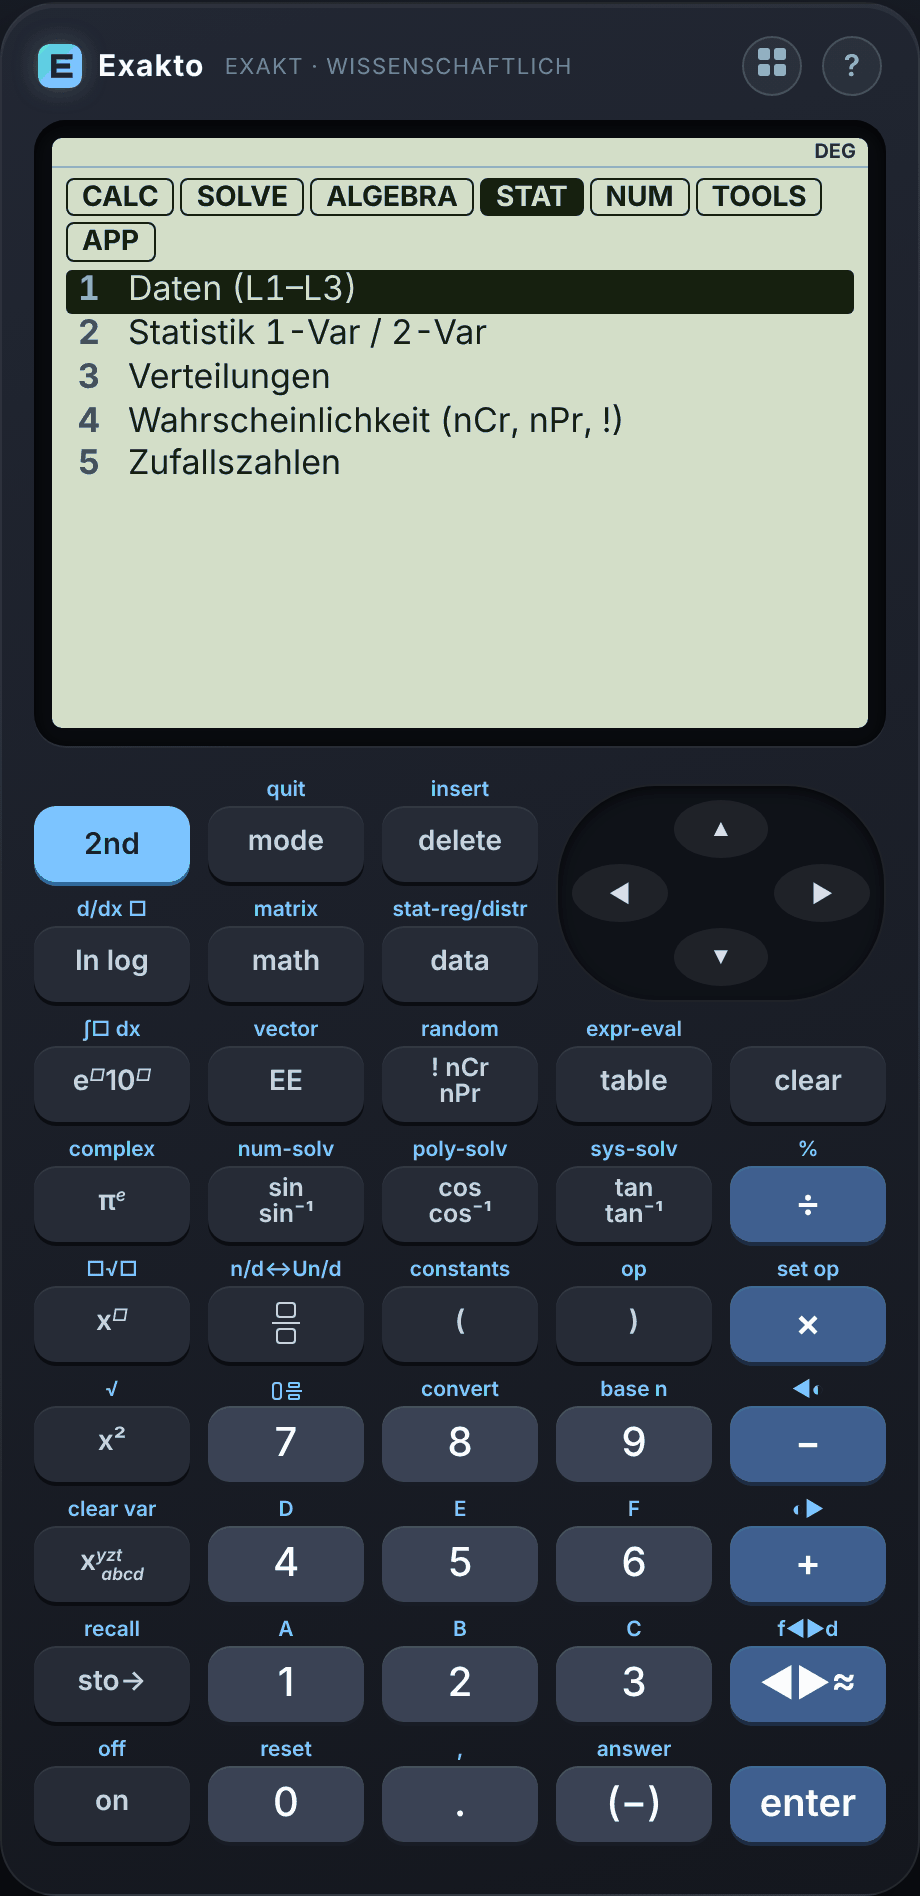
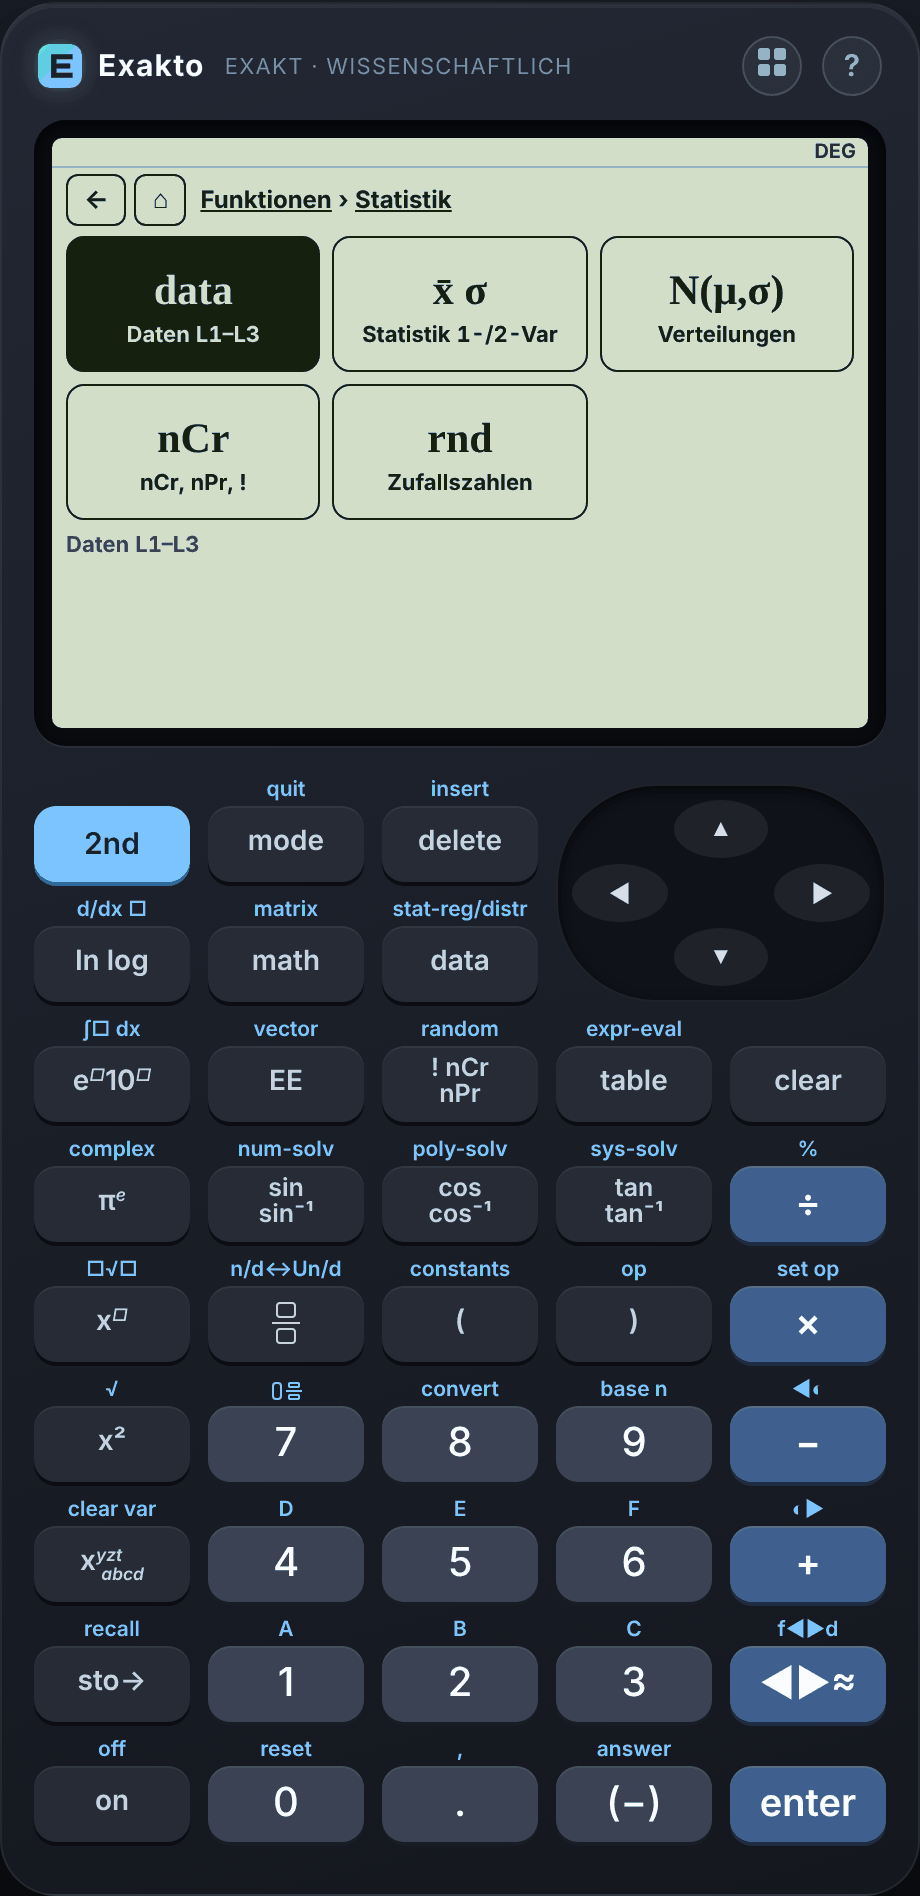
Add files via upload

Changed region(s): [[0.0609, 0.0934, 0.9435, 0.3112], [0.0913, 0.2801, 0.1522, 0.3112]]

diff --git a/src/fmenu.js b/src/fmenu.js
@@ -2,59 +2,137 @@
 const FM_KEY = 'exakto.recent.v1';
 const fmApp = act => () => { doMenu(act); renderAll(); };
 const fmOpen = name => () => openByName(name);
-// [Tab, [[id, Beschriftung, Aktion]]]; Aktion: {st:'frac'} fuegt Struktur ein, {t:'ln('} ein Token, {run} fuehrt aus
-const FM_GROUPS = [
-  ['CALC', [
-    ['frac', 'Bruch a/b', { st: 'frac' }], ['mix', 'Gemischte Zahl', { st: 'mix' }], ['pow', 'Potenz xⁿ', { st: 'pow' }], ['sqrt', 'Wurzel √', { st: 'sqrt' }],
-    ['root', 'n-te Wurzel', { st: 'root' }], ['abs', 'Betrag |x|', { st: 'abs' }], ['sum', 'Summe Σ', { st: 'sum' }], ['prod', 'Produkt Π', { st: 'prod' }],
-    ['int', 'Integral ∫', { st: 'int' }], ['deriv', 'Ableitung d/dx', { st: 'deriv' }],
-  ]],
-  ['SOLVE', [
-    ['numsolve', 'Gleichung lösen (numerisch)', { run: fmOpen('numsolve') }], ['polysolve', 'Polynom (Grad 2/3)', { run: fmOpen('polysolve') }],
-    ['syssolve', 'Gleichungssystem (2/3)', { run: fmOpen('syssolve') }], ['exprEval', 'Ausdruck auswerten', { run: fmOpen('exprEval') }], ['table', 'Wertetabelle', { run: fmOpen('table') }],
-  ]],
-  ['ALGEBRA', [
-    ['complex', 'Komplexe Zahlen', { run: fmOpen('complex') }], ['matrix', 'Matrizen', { run: fmOpen('matrix') }], ['vector', 'Vektoren', { run: fmOpen('vector') }],
-    ['opmenu', 'Pol, Rec, Primfaktoren …', { run: fmOpen('opmenu') }], ['setop', 'Mengen (L1–L3)', { run: fmOpen('setop') }],
-  ]],
-  ['STAT', [
-    ['data', 'Daten (L1–L3)', { run: fmOpen('data') }], ['stat', 'Statistik 1-Var / 2-Var', { run: fmOpen('stat') }], ['statdistr', 'Verteilungen', { run: fmOpen('statdistr') }],
-    ['prb', 'Wahrscheinlichkeit (nCr, nPr, !)', { run: fmOpen('prb') }], ['random', 'Zufallszahlen', { run: fmOpen('random') }],
-  ]],
-  ['NUM', [
-    ['math', 'Mathe-Funktionen', { run: fmOpen('math') }], ['base', 'Zahlensysteme (Bin, Oct, Hex)', { run: fmOpen('base') }], ['conv', 'Umrechnung (Einheiten)', { run: fmOpen('conv') }],
-    ['const', 'Konstanten', { run: fmOpen('const') }], ['angle', 'Winkel (°, rad, gon)', { run: fmOpen('angle') }], ['rp', 'Polar ⇄ Kartesisch', { run: fmOpen('rp') }],
-    ['var', 'Variablen', { run: fmOpen('var') }], ['sto', 'Wert speichern →', { run: fmOpen('sto') }], ['rcl', 'Wert abrufen', { run: fmOpen('rcl') }],
-  ]],
-  ['TOOLS', [
-    ['graph', 'Graph zeichnen (F2)', { run: fmApp('graph') }], ['tools', 'Engineering · Elektrotechnik (F3)', { run: fmApp('tools') }],
-  ]],
-  ['APP', [
-    ['calc', 'Rechner (Startbildschirm)', { run: fmApp('calc') }], ['mode', 'Modus (Winkel, Format, Stellen)', { run: fmOpen('mode') }],
-    ['help', 'Einstellungen & Hilfe (?)', { run: fmApp('help') }], ['reset', 'Zurücksetzen …', { run: fmOpen('reset') }],
-  ]],
+// Baum: Ordner {id,l,icon,kids} und Funktionen {id,l,sym,act}; act: {st:'frac'} fuegt Struktur ein, {run} fuehrt aus
+const fmL = (id, l, sym, act) => ({ id, l, sym, act });
+const FM_SVG = (p) => `<svg viewBox="0 0 32 32" fill="none" stroke="currentColor" stroke-width="2.2" stroke-linecap="round" stroke-linejoin="round" aria-hidden="true">${p}</svg>`;
+const FM_ICON = {
+  calc: FM_SVG('<rect x="6" y="3" width="20" height="26" rx="3"/><path d="M10 9h12M11 15h2M19 15h2M11 20h2M19 20h2M11 25h2M19 25h2"/>'),
+  analysis: FM_SVG('<path d="M12 4c-3 0-3 3-3 6v12c0 3 0 6-3 6M20 12l6 8M26 12l-6 8"/>'),
+  solve: FM_SVG('<path d="M4 22l6-12 5 8 4-5 9 9"/><circle cx="10" cy="10" r="1.6" fill="currentColor"/>'),
+  alg: FM_SVG('<path d="M8 5H5v22h3M24 5h3v22h-3M11 11h4M17 11h4M11 16h4M17 16h4M11 21h4M17 21h4"/>'),
+  stat: FM_SVG('<path d="M5 27V5M5 27h22"/><rect x="9" y="16" width="4" height="8"/><rect x="15" y="10" width="4" height="14"/><rect x="21" y="14" width="4" height="10"/>'),
+  num: FM_SVG('<path d="M12 5L9 27M22 5l-3 22M5 12h22M4 20h22"/>'),
+  conv: FM_SVG('<path d="M5 12h20l-5-5M27 20H7l5 5"/>'),
+  mem: FM_SVG('<rect x="5" y="8" width="22" height="16" rx="2"/><path d="M10 8V4M16 8V4M22 8V4M10 24v4M16 24v4M22 24v4"/>'),
+  tools: FM_SVG('<path d="M5 26V6M5 26h22"/><path d="M7 22c5-14 8 8 12-6s5-6 7-8"/>'),
+  app: FM_SVG('<circle cx="16" cy="16" r="4"/><path d="M16 4v5M16 23v5M4 16h5M23 16h5M7.5 7.5l3.5 3.5M21 21l3.5 3.5M24.5 7.5L21 11M11 21l-3.5 3.5"/>'),
+  recent: FM_SVG('<circle cx="16" cy="16" r="11"/><path d="M16 9v7l5 3"/>'),
+};
+const FM_TREE = [
+  { id: 'f-calc', l: 'Rechnen', icon: 'calc', kids: [
+    fmL('frac', 'Bruch', 'a⁄b', { st: 'frac' }), fmL('mix', 'Gemischte Zahl', '1½', { st: 'mix' }), fmL('pow', 'Potenz', 'xⁿ', { st: 'pow' }),
+    fmL('sqrt', 'Wurzel', '√', { st: 'sqrt' }), fmL('root', 'n-te Wurzel', 'ⁿ√', { st: 'root' }), fmL('abs', 'Betrag', '|x|', { st: 'abs' }),
+    { id: 'f-analysis', l: 'Analysis', icon: 'analysis', kids: [
+      fmL('sum', 'Summe', 'Σ', { st: 'sum' }), fmL('prod', 'Produkt', 'Π', { st: 'prod' }), fmL('int', 'Integral', '∫', { st: 'int' }), fmL('deriv', 'Ableitung', 'd/dx', { st: 'deriv' }),
+    ] },
+  ] },
+  { id: 'f-solve', l: 'Lösen', icon: 'solve', kids: [
+    fmL('numsolve', 'Num-Solv', 'f(x)=0', { run: () => openByName('numsolve') }), fmL('polysolve', 'Poly-Solv', 'ax²+', { run: () => openByName('polysolve') }),
+    fmL('syssolve', 'Sys-Solv', 'A·x=b', { run: () => openByName('syssolve') }), fmL('exprEval', 'Ausdruck auswerten', 'expr', { run: () => openByName('exprEval') }),
+    fmL('table', 'Wertetabelle', 'table', { run: () => openByName('table') }),
+  ] },
+  { id: 'f-alg', l: 'Algebra', icon: 'alg', kids: [
+    fmL('complex', 'Komplexe Zahlen', 'z=a+bi', { run: () => openByName('complex') }), fmL('matrix', 'Matrizen', '[A]', { run: () => openByName('matrix') }),
+    fmL('vector', 'Vektoren', 'u×v', { run: () => openByName('vector') }), fmL('opmenu', 'Pol, Rec, Primfaktoren', 'op', { run: () => openByName('opmenu') }),
+    fmL('setop', 'Mengen', 'A∪B', { run: () => openByName('setop') }),
+  ] },
+  { id: 'f-stat', l: 'Statistik', icon: 'stat', kids: [
+    fmL('data', 'Daten L1–L3', 'data', { run: () => openByName('data') }), fmL('stat', 'Statistik 1-/2-Var', 'x̄ σ', { run: () => openByName('stat') }),
+    fmL('statdistr', 'Verteilungen', 'N(μ,σ)', { run: () => openByName('statdistr') }), fmL('prb', 'nCr, nPr, !', 'nCr', { run: () => openByName('prb') }),
+    fmL('random', 'Zufallszahlen', 'rnd', { run: () => openByName('random') }),
+  ] },
+  { id: 'f-num', l: 'Zahlen', icon: 'num', kids: [
+    fmL('math', 'Mathe-Funktionen', 'f(x)', { run: () => openByName('math') }), fmL('base', 'Zahlensysteme', 'hex', { run: () => openByName('base') }),
+    { id: 'f-conv', l: 'Umrechnen', icon: 'conv', kids: [
+      fmL('conv', 'Einheiten', 'cm→in', { run: () => openByName('conv') }), fmL('const', 'Konstanten', 'π e c', { run: () => openByName('const') }),
+      fmL('angle', 'Winkel', '° rad', { run: () => openByName('angle') }), fmL('rp', 'Polar ⇄ Kartesisch', 'r∠θ', { run: () => openByName('rp') }),
+    ] },
+    { id: 'f-mem', l: 'Speicher', icon: 'mem', kids: [
+      fmL('var', 'Variablen', 'x y z', { run: () => openByName('var') }), fmL('sto', 'Speichern', 'sto→', { run: () => openByName('sto') }), fmL('rcl', 'Abrufen', 'rcl', { run: () => openByName('rcl') }),
+    ] },
+  ] },
+  { id: 'f-tools', l: 'Werkzeuge', icon: 'tools', kids: [
+    fmL('graph', 'Graph (F2)', 'y=f(x)', { run: () => { doMenu('graph'); renderAll(); } }), fmL('tools', 'Engineering (F3)', 'U=R·I', { run: () => { doMenu('tools'); renderAll(); } }),
+  ] },
+  { id: 'f-app', l: 'Einstellungen', icon: 'app', kids: [
+    fmL('calc', 'Rechner (Start)', '⌂', { run: () => { doMenu('calc'); renderAll(); } }), fmL('mode', 'Modus', 'mode', { run: () => openByName('mode') }),
+    fmL('help', 'Hilfe & Einstellungen', '?', { run: () => { doMenu('help'); renderAll(); } }), fmL('reset', 'Zurücksetzen', '↺', { run: () => openByName('reset') }),
+  ] },
 ];
-const FM_INDEX = {}; FM_GROUPS.forEach(([, items]) => items.forEach(([id, l, act]) => { FM_INDEX[id] = { id, l, act }; }));
+const FM_EN = {"Funktionen": "Functions", "Zuletzt benutzt": "Recently used", "Rechnen": "Calculate", "Analysis": "Calculus", "Lösen": "Solve", "Algebra": "Algebra", "Statistik": "Statistics", "Zahlen": "Numbers", "Umrechnen": "Convert", "Speicher": "Memory", "Werkzeuge": "Tools", "Einstellungen": "Settings", "Ordner": "Folder", "Zurück": "Back", "Oberste Ebene": "Top level", "Bruch": "Fraction", "Gemischte Zahl": "Mixed number", "Potenz": "Power", "Wurzel": "Root", "n-te Wurzel": "nth root", "Betrag": "Absolute value", "Summe": "Sum", "Produkt": "Product", "Integral": "Integral", "Ableitung": "Derivative", "Ausdruck auswerten": "Evaluate expression", "Wertetabelle": "Value table", "Komplexe Zahlen": "Complex numbers", "Matrizen": "Matrices", "Vektoren": "Vectors", "Pol, Rec, Primfaktoren": "Pol, Rec, prime factors", "Mengen": "Sets", "Daten L1–L3": "Data L1–L3", "Statistik 1-/2-Var": "1-/2-Var statistics", "Verteilungen": "Distributions", "Zufallszahlen": "Random numbers", "Mathe-Funktionen": "Math functions", "Zahlensysteme": "Number bases", "Einheiten": "Units", "Konstanten": "Constants", "Winkel": "Angles", "Polar ⇄ Kartesisch": "Polar ⇄ Cartesian", "Variablen": "Variables", "Speichern": "Store", "Abrufen": "Recall", "Rechner (Start)": "Calculator (home)", "Modus": "Mode", "Hilfe & Einstellungen": "Help & settings", "Zurücksetzen": "Reset"};
+const fmT = x => (UI.lang === 'en' && FM_EN[x]) || x;
+const FM_INDEX = {};
+(function idx(list) { list.forEach(n => { if (n.kids) idx(n.kids); else FM_INDEX[n.id] = n; }); })(FM_TREE);
 function fmRecent() {
   try { const a = JSON.parse(localStorage.getItem(FM_KEY) || '[]'); return Array.isArray(a) ? a.filter(x => typeof x === 'string' && FM_INDEX[x]).slice(0, 5) : []; } catch (e) { return []; }
 }
 function fmNote(id) {
   try { const a = [id].concat(fmRecent().filter(x => x !== id)).slice(0, 5); localStorage.setItem(FM_KEY, JSON.stringify(a)); } catch (e) { /* egal */ }
 }
-function fmItem(e) {
-  const it = { l: tr(e.l), onChoose: () => fmNote(e.id) };
-  if (e.act.run) it.run = e.act.run; else if (e.act.st) it.st = e.act.st; else it.t = [].concat(e.act.t);
-  return it;
-}
-function functionMenuDef() {
-  const tabs = []; const rec = fmRecent();
-  if (rec.length) tabs.push({ name: 'RECENT', items: rec.map(id => fmItem(FM_INDEX[id])) });
-  FM_GROUPS.forEach(([name, items]) => tabs.push({ name, items: items.map(([id, l, act]) => fmItem({ id, l, act })) }));
-  return { title: 'FUNKTIONEN', tabs };
+function fmRoot() {
+  const rec = fmRecent().map(id => FM_INDEX[id]);
+  return { kids: (rec.length ? [{ id: 'f-recent', l: 'Zuletzt benutzt', icon: 'recent', kids: rec }] : []).concat(FM_TREE) };
 }
 function openFunctionMenu() {
   if (typeof showPanel === 'function' && panelOpen()) showPanel(null);
   if (ST.off) { ST.off = false; }
-  const c = cur(); if (c.type === 'menu' && c.def && c.def.title === 'FUNKTIONEN') { pop(); renderAll(); return; }
-  openMenu(functionMenuDef()); renderAll();
+  const c = cur(); if (c.fm) { pop(); renderAll(); return; }
+  openFolderMenu(); renderAll();
+}
+function openFolderMenu() {
+  const COLS = 3; const root = fmRoot();
+  const sc = {
+    type: 'menu', overlay: true, fm: true, path: [], sel: 0,
+    editor() { return null; },
+    node() { let n = root; for (const i of sc.path) n = n.kids[i]; return n; },
+    render() {
+      const nodes = [root]; sc.path.forEach(i => nodes.push(nodes[nodes.length - 1].kids[i]));
+      const crumbs = nodes.map((n, d) => `<a data-tap="c:${d}">${d === 0 ? esc(fmT('Funktionen')) : esc(fmT(n.l))}</a>`).join(' › ');
+      const kids = sc.node().kids;
+      const dis = sc.path.length ? '' : 'disabled';
+      const tiles = kids.map((k, i) => {
+        const g = k.icon ? FM_ICON[k.icon] : `<span class="sym">${esc(k.sym || '▸')}</span>`;
+        return `<div class="tile ${k.kids ? 'folder' : ''} ${i === sc.sel ? 'sel' : ''}" data-tap="i:${i}">${k.kids ? `<span class="cnt">${k.kids.length}</span>` : ''}${g}<span class="t">${esc(fmT(k.l))}</span></div>`;
+      }).join('');
+      const k = kids[sc.sel]; const foot = k ? (k.kids ? fmT('Ordner') + ': ' : '') + fmT(k.l) : '';
+      return `<div class="fbar"><span class="fb ${dis}" data-tap="b" title="${esc(fmT('Zurück'))}">←</span><span class="fb ${dis}" data-tap="h" title="${esc(fmT('Oberste Ebene'))}">⌂</span><span class="crumbs">${crumbs}</span></div><div class="tgrid">${tiles}</div><div class="ffoot">${foot}</div>`;
+    },
+    cmd(c) {
+      const kids = sc.node().kids; const n = kids.length;
+      switch (c.k) {
+        case 'tap': {
+          const [kind, v] = c.key.split(':');
+          if (kind === 'i') { sc.sel = +v; choose(+v); } else if (kind === 'b') up(sc.path.length - 1); else if (kind === 'h') up(0); else if (kind === 'c') up(+v);
+          return true;
+        }
+        case 'nav':
+          if (c.d === 'left') sc.sel = (sc.sel + n - 1) % n;
+          else if (c.d === 'right') sc.sel = (sc.sel + 1) % n;
+          else if (c.d === 'down') sc.sel = sc.sel + COLS < n ? sc.sel + COLS : sc.sel % COLS;
+          else sc.sel = sc.sel - COLS >= 0 ? sc.sel - COLS : Math.min(n - 1, sc.sel + Math.floor((n - 1 - sc.sel) / COLS) * COLS);
+          return true;
+        case 'enter': choose(sc.sel); return true;
+        case 'tok': { const d = c.t[0]; if (c.t.length === 1 && d >= '0' && d <= '9') choose(d === '0' ? 9 : Number(d) - 1); return true; }
+        case 'clear': if (sc.path.length) up(sc.path.length - 1); else pop(); return true;
+        case 'quit': goHome(); return true;
+        case 'open': pop(); openByName(c.name); return true;
+      }
+      return true;
+    },
+  };
+  function up(d) { if (d < 0) return; sc.path = sc.path.slice(0, d); sc.sel = 0; }
+  function choose(i) {
+    const it = sc.node().kids[i]; if (!it) return;
+    if (it.kids) { sc.path.push(i); sc.sel = 0; return; }
+    pop();
+    fmNote(it.id);
+    if (it.act.run) { it.act.run(); return; }
+    const b = cur(); const E = b.editor && b.editor();
+    if (!E) return;
+    const o = { ans: b.type === 'home' };
+    if (b.type === 'home') ST.hsel = null;
+    edCmd(E, { k: 'st', kind: it.act.st }, o);
+    if (b.afterInsert) b.afterInsert();
+  }
+  push(sc);
 }

diff --git a/src/style.css b/src/style.css
@@ -193,3 +193,18 @@ html[data-theme="light"] .tout.err{background:#fdecec;border-color:#f0b4b4;color
 .lcd.gr{touch-action:none;overflow:hidden}
 [data-tap]{cursor:pointer}
 .wn{color:#b45309;font-weight:700;margin-left:4px}
+/* Funktionsmenue (Ordner) */
+.fbar{display:flex;align-items:center;gap:4px;margin:-2px 0 5px;font-size:13px;font-weight:700}
+.fb{border:1.5px solid var(--lcd-ink);border-radius:6px;padding:0 8px;line-height:24px;cursor:pointer}
+.fb.disabled{opacity:.3;pointer-events:none}
+.fbar .crumbs{flex:1;white-space:nowrap;overflow:hidden;text-overflow:ellipsis;font-size:12px;padding-left:3px}
+.fbar .crumbs a{text-decoration:underline;cursor:pointer}
+.tgrid{display:grid;grid-template-columns:repeat(3,1fr);gap:6px;align-content:start}
+.tile{position:relative;border:1.5px solid var(--lcd-ink);border-radius:9px;padding:6px 2px 4px;display:flex;flex-direction:column;align-items:center;justify-content:center;gap:2px;min-height:68px;cursor:pointer}
+.tile svg{width:28px;height:28px}
+.tile .sym{font-size:21px;line-height:28px;height:28px;font-weight:700;font-family:Georgia,"Times New Roman",serif;white-space:nowrap}
+.tile .t{font-size:11px;font-weight:700;line-height:1.1;text-align:center}
+.tile .cnt{position:absolute;right:5px;top:2px;font-size:9.5px;opacity:.7}
+.tile.sel{background:var(--lcd-ink);color:var(--lcd)}
+.ffoot{margin-top:5px;font-size:11px;font-weight:700;opacity:.75;min-height:14px}
+@media (pointer:coarse) and (max-width:600px) and (orientation:portrait){.tile{min-height:58px}.tile svg{width:24px;height:24px}.tile .sym{font-size:18px;line-height:24px;height:24px}.tile .t{font-size:10.5px}}

diff --git a/src/ui2.js b/src/ui2.js
@@ -529,6 +529,7 @@ function renderAll() {
   const sc = cur();
   lcd.classList.toggle('gr', sc.type === 'graph');
   lcd.innerHTML = sc.render();
+  { const ts = lcd.querySelector('.tile.sel'); if (ts && ts.scrollIntoView) ts.scrollIntoView({ block: 'nearest' }); }
   announce(sc);
   const fmtTxt = (S.fmt.mode !== 'NORM' ? S.fmt.mode + ' ' : '') + (S.fmt.dec !== 'F' ? 'FIX' + S.fmt.dec : '');
   indL.innerHTML = (ST.second ? '<span class="tag s2on">2nd</span>' : '') + (cur().type === 'home' && ST.ed.ow ? '<span class="tag">INS</span>' : '');

diff --git a/README.en.md b/README.en.md
@@ -39,7 +39,7 @@ Many school and university calculators work exactly (`2/3 + 1/4 = 11/12`, `√12
 - **Offline and installable (PWA)** – no server, no tracking, no dependencies. Also available as **one single HTML file** (`exakto.html`).
 
 <div align="center">
-<img src="docs/screenshot-graph.png" width="240" alt="Graph mode"> &nbsp; <img src="docs/screenshot-menu-algebra.png" width="240" alt="Algebra menu"> &nbsp; <img src="docs/screenshot-phone.png" width="200" alt="Phone view"><br><img src="docs/screenshot-tools.png" width="520" alt="Electrical tools">
+<img src="docs/screenshot-graph.png" width="240" alt="Graph mode"> &nbsp; <img src="docs/screenshot-menu-algebra.png" width="240" alt="Algebra menu"> &nbsp; <img src="docs/screenshot-phone2.png" width="200" alt="Phone view with subfolder"><br><img src="docs/screenshot-tools.png" width="520" alt="Electrical tools">
 </div>
 
 ## Known limits
@@ -60,7 +60,7 @@ Details: [docs/MATH.md](docs/MATH.md) · [docs/ARCHITECTURE.md](docs/ARCHITECTUR
 
 **As an app:** on the Pages address choose “Install” / “Add to Home Screen”.
 
-**Function menu:** the grid icon at the top opens every function by category (CALC, SOLVE, ALGEBRA, STAT, NUM, TOOLS, APP), with a RECENT tab for recently used ones – no 2nd needed. The **blue second-function labels** above the keys are tappable too. Switch to graph/engineering via TOOLS (or `F2`/`F3`). Settings and help are behind the **?** button (or the `?` / `F1` key).
+**Function menu:** the grid icon at the top opens every function as **folders with icons** (Calculate, Solve, Algebra, Statistics, Numbers, Tools, Settings, plus “Recently used”) – no 2nd needed. Folders can contain subfolders (e.g. Calculate › Calculus); `←` goes up one level, `⌂` to the top, the path bar jumps to any level (keyboard: arrows, `Enter`, `clear`/`Esc` = back). The **blue second-function labels** above the keys are tappable too. Switch to graph/engineering via TOOLS (or `F2`/`F3`). Settings and help are behind the **?** button (or the `?` / `F1` key).
 
 ## Development
 
@@ -92,7 +92,7 @@ Your copy will be served at `https://USER.github.io/exakto/`. All paths are rela
 - [x] Graph analysis: zeros, minimum/maximum, intersections, y-intercept; touch support
 - [x] Time limit for long calculations, ⚠ warning when integrals do not converge
 - [x] End-to-end browser tests in CI
-- [x] Categorized function menu, tappable second-function labels
+- [x] Function menu as folders with icons and sublevels, tappable second-function labels
 - [ ] More engineering modules
 - [ ] Abortable calculations via web worker (today: time limit of about 6 seconds), tests on real phones and screen readers
 

diff --git a/CHANGELOG.md b/CHANGELOG.md
@@ -1,7 +1,7 @@
 # Changelog
 
 ## 1.2.0
-- **Funktionsmenü** (Gitter-Symbol): alle Funktionen nach Kategorien, Tab „RECENT“ mit zuletzt benutzten, ohne 2nd erreichbar
+- **Funktionsmenü** (Gitter-Symbol): Ordner mit Symbolen und Unterebenen, Pfad-Leiste, Zurück/Home, „Zuletzt benutzt“, ohne 2nd erreichbar
 - **Antippbare Zweitfunktionen:** die blauen Beschriftungen über den Tasten lösen die Funktion direkt aus
 - **Zweitfunktionen:** komplexe Zahlen (`complex`), Matrizen A–C bis 4×4 (`matrix`), Vektoren 2D/3D (`vector`), `op` (Pol/Rec, Primfaktoren, Teiler, Division mit Rest) und `set op` (Mengen aus L1–L3)
 - **Numerischer Löser:** Nullstellen nur bei nachgewiesenem Vorzeichenwechsel und über dem Rundungsrauschen bestätigt; Berührungen werden als „unbestätigt“ markiert, positive Minima und Polstellen sind keine Lösungen; Anzeige immer mit ≈

diff --git a/docs/ARCHITECTURE.md b/docs/ARCHITECTURE.md
@@ -11,7 +11,7 @@ Eine Engine, zwei Ausgaben: `npm run build` erzeugt die Website (`dist/`), `npm 
 | `src/eng.js` | SI-Präfixe, Einheitenprüfung, Elektrotechnik (reine Logik) |
 | `src/linalg.js` | Komplexe Zahlen, Matrizen, Vektoren, Mengenoperationen (reine Logik) |
 | `src/ui1.js` / `src/ui2.js` / `src/ui3.js` | Display, Tasten, Menüs, Bildschirme, Tastatur/Touch; ui3: Komplex/Matrix/Vektor-Bildschirme |
-| `src/fmenu.js` | Funktionsmenü (Gitter-Symbol): Kategorien und „zuletzt benutzt“ |
+| `src/fmenu.js` | Funktionsmenü (Gitter-Symbol): Ordnerbaum mit Symbolen, Pfad-Leiste, „zuletzt benutzt“ |
 | `src/graph.js` | Graph-Bildschirm (SVG im Display) |
 | `src/tools.js` | Engineering-Panel, Schnellwechsel (F2/F3) |
 | `tests/e2e/run.mjs` | Browser-Tests (Playwright) gegen `release/exakto.html` |
